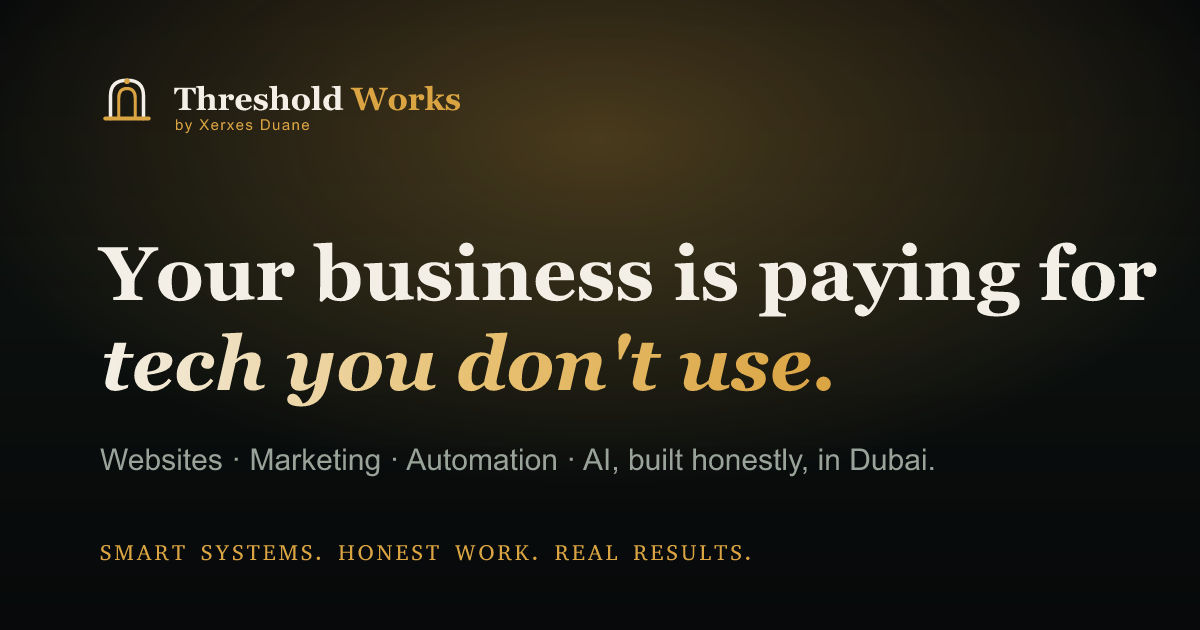
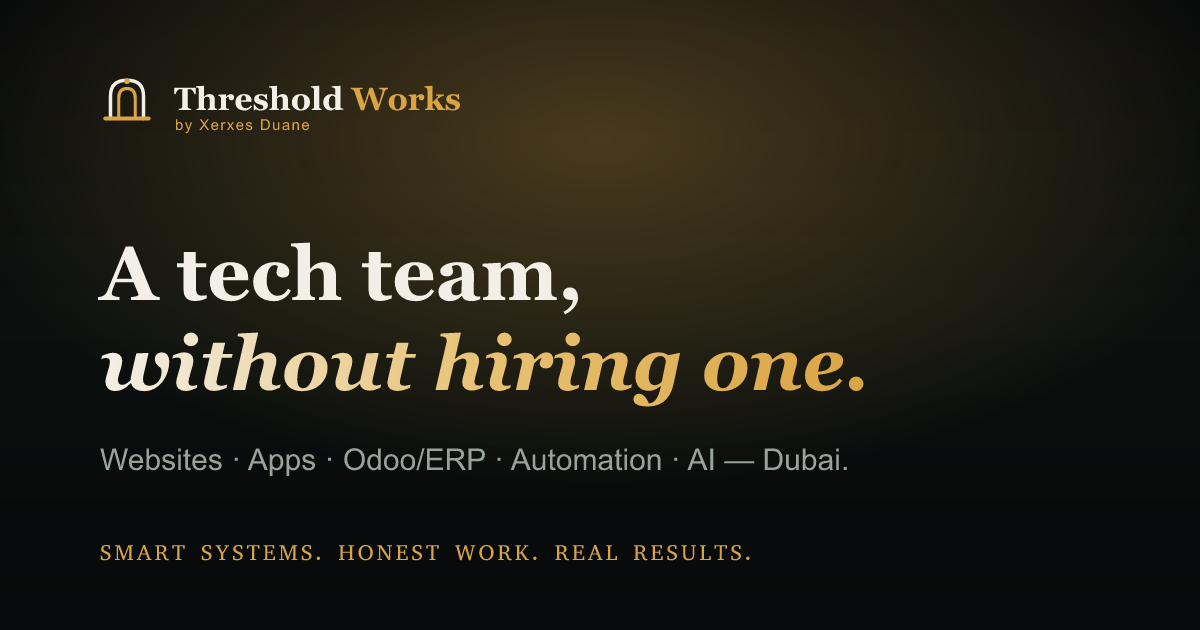
New social share image: 'A tech team, without hiring one.'
Replace the home/default OG card headline (was 'tech you don't use') with 'A tech team, without hiring one.' and an updated subtitle, same brand template (dark gradient, gold glow, logo, tagline). Add scripts/generate-home-og.mjs to render public/og-image.svg -> public/brand/og-image.png via resvg. Bump OG_IMAGE_VERSION to 3 so scrapers fetch the new image.

diff --git a/src/lib/seo.ts b/src/lib/seo.ts
@@ -36,7 +36,7 @@ const DEFAULT_OG_IMAGE = `${SITE_ORIGIN}/brand/og-image.png`;
  * OG image by URL for weeks, so a versioned query string forces them to fetch
  * the current image instead of serving a stale (or wrong) cached one.
  */
-const OG_IMAGE_VERSION = "2";
+const OG_IMAGE_VERSION = "3";
 
 /** Absolute, cache-busted share-image URL for a page. */
 function ogImageUrl(image?: string): string {
